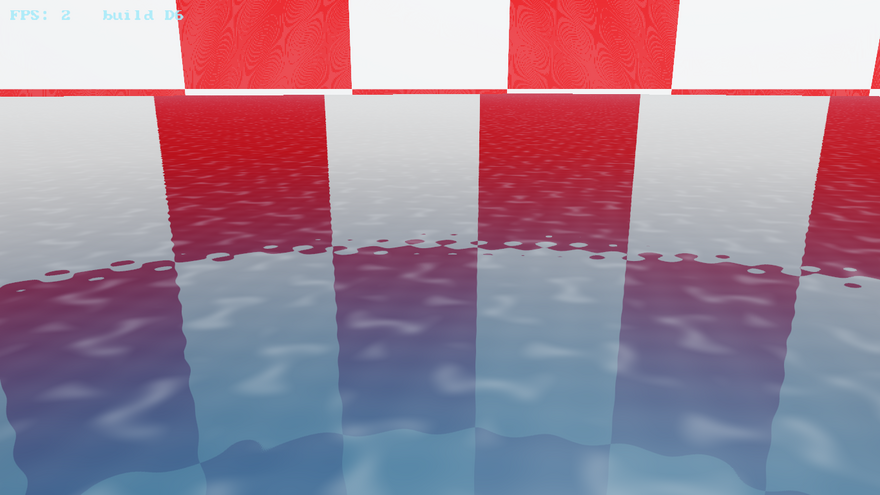
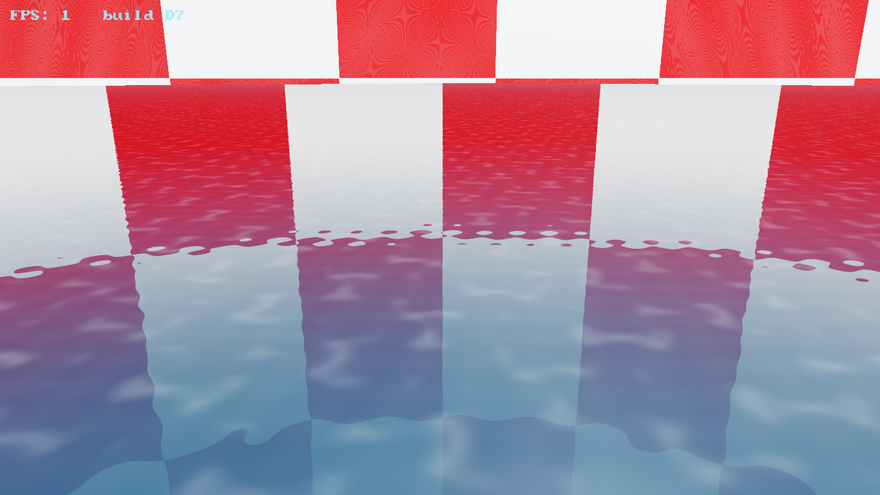
Hyper-realism waterline pass: real hull contact, splash churn, boil (D7)
The water knew nothing about the fleet — reflections were an analytic
per-fragment fake that never tracked a pot. D7 streams per-pot truth to
the water shader and grounds the fleet in the surface:

* uHulls[18]: each parked pot gets a bright aerated contact-foam collar,
  a meniscus bump where the surface meets the hull, and an upright
  darkened mirror smear anchored at ITS hull along the mirrored view ray
  (replaces the analytic ghost entirely).
* uSplashes[18]: a live crown paints bright churn around its own base,
  strength tied to crown/jet life — the splash reflects in the water it
  just disturbed.
* Post-impact boil: the collapsed cavity outgasses small weak rings for
  ~2.5 s after each pot parks, then the pool goes glassy.
* Secondary ejecta: fast landing droplets throw two tiny droplets back
  up (rain-on-water), collected out-of-loop and hard-capped at 3200.

Verified 36/36 frames clip-clean; near-water bright mass at the parked
fleet +29% (collars), splash zone reads whiter (5.8/3.4% blue bands vs
36.9/17.0 in D6) — churn, not another blue bank. HUD bumped to D7.

🤖 Generated with Codebuff

diff --git a/README.md b/README.md
@@ -139,7 +139,8 @@ What it renders :
   on a staggered timeline, with real-ish physics: gravity and tumble in the air, a splash that
   fully absorbs the plunge (quadratic cavity drag below the surface), then heavy underwater drag
   as the pot settles a few centimetres and **parks at the fall point** — no buoyancy, no bob, no
-  righting; it keeps the orientation it landed in and stays there. Falling pots carry air drag, a
+  righting; it keeps the orientation it landed in and stays there, with a bright contact-foam
+  collar, a meniscus bump and a real anchored mirror reflection painted around its hull. Falling pots carry air drag, a
   drift arc and a two-axis tumble, and the whole simulation runs on a fixed 1/120 s substep so
   trajectories are frame-rate independent. `R` re-drops the whole fleet
 - **Splash FX**: a GPU-animated **Worthington crown** — a STEEP translucent POOL-WATER sheet
@@ -151,7 +152,9 @@ What it renders :
   fragments), expanding **ripple rings** with residual foam-trail halos that disturb the
   reflection, and a slender delayed central **Rayleigh jet** — its punch scaled by the impact —
   that fires on the cavity's inertial collapse and falls back with its own ring — the crown's
-  light sweep follows the actual reflected-ray azimuth. The pots wear an energy-corrected GGX ceramic glaze with animated underwater caustics, refraction-offset submerged shading, and a wet waterline. All CPU cost is a
+  light sweep follows the actual reflected-ray azimuth, the surface around a live crown shows its
+  bright churn, the collapsed cavity boils out micro-rings for a couple of seconds after each
+  splash, and fast landing droplets throw tiny secondary ejecta back up. The pots wear an energy-corrected GGX ceramic glaze with animated underwater caustics, refraction-offset submerged shading, and a wet waterline. All CPU cost is a
   handful of uniforms; the geometry animates in the vertex shader
 
 Run the pool scene on its own with :

diff --git a/REFERENCES.md b/REFERENCES.md
@@ -34,6 +34,26 @@ Realism takeaways applied:
 - Horizon sheen: far sea mirrors the sky band above it rather than fading into a haze knob.
 - Haze tinted toward a cool water body so far water still reads as water.
 
+## Pool room (scene 3) — BUILD-D7 waterline realism pass
+
+Realism takeaways applied:
+
+- A hull sitting in water drags a bright aerated contact collar and the
+  surface climbs (meniscus) where it meets the hull — an object that floats
+  or parks "cleanly" in perfectly flat water reads as pasted on.
+- Reflections must anchor at the OBJECT: a reflection smear starts at the
+  object's own waterline contact and lies along the mirrored view ray,
+  darkened and broken apart by surface disturbance. Analytic per-fragment
+  grazing darkening (the old ghost) does not survive scrutiny because it
+  does not know where anything is.
+- After a cavity collapses the surface keeps boiling for a couple of
+  seconds — outgassed air pops into small weak rings around the impact
+  before the pool returns to glass.
+- Droplets landing at speed throw tiny secondary droplets back up
+  (rain-on-water behaviour), hard-capped so a storm cannot avalanche.
+- A live crown drags bright churn across the surface around its own base;
+  the churn fades with the crown's life rather than switching off.
+
 ## Notes on staging
 
 - Reference images are informational. No image is downloaded at runtime; do not add an image fetch to the binary without explicitly wiring it through Convex/actions and the user's Keys/API keys.
